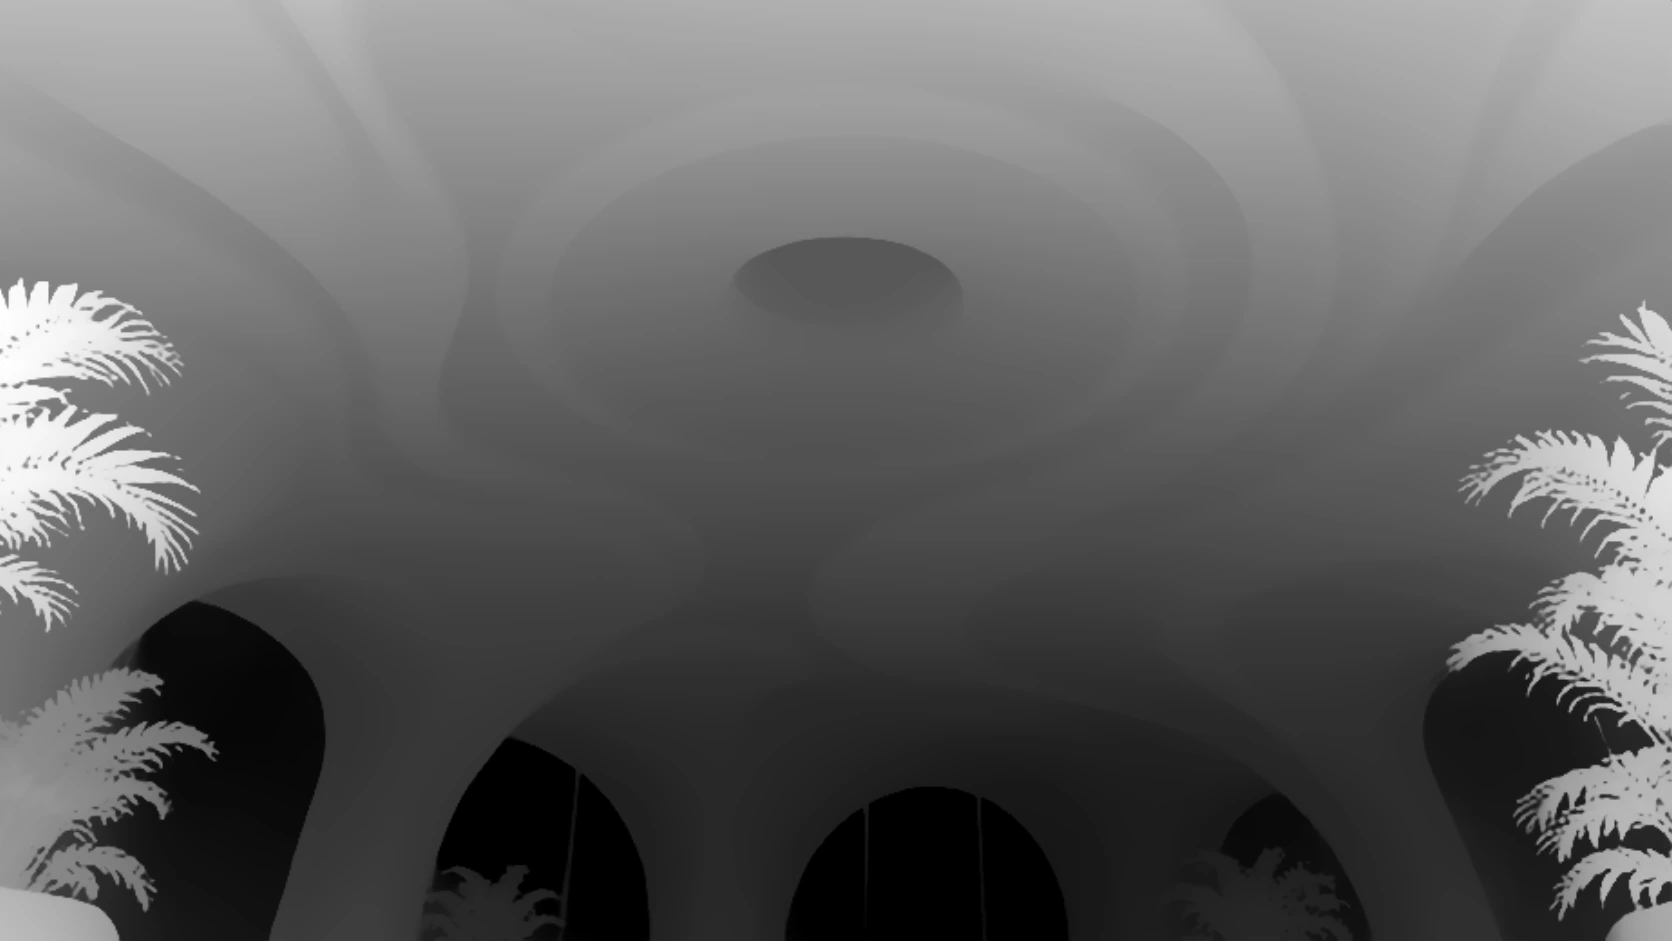
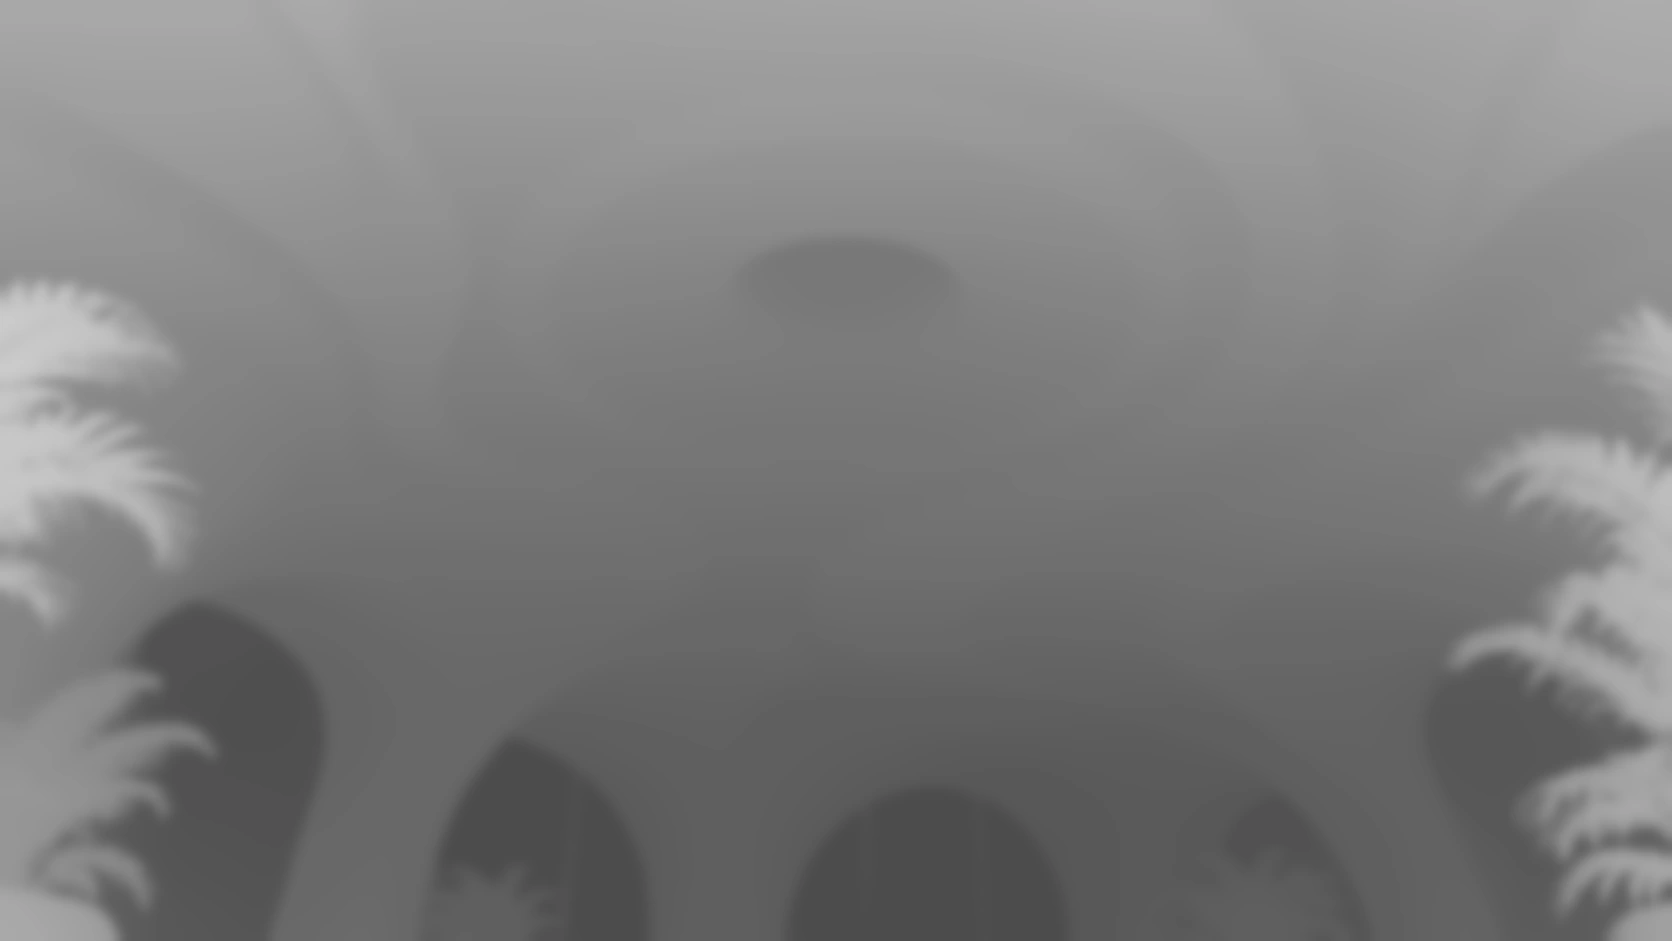
Add files via upload

diff --git a/journey.min.js b/journey.min.js
@@ -56,7 +56,7 @@ $("jwW").innerHTML = '<div class="jw-wp" data-id="' + id + '"><div class="jw-wi"
 jw.classList.add("win"); mark(); $("jwX").focus({ preventScroll: true });
 }
 const closeWin = () => { jw.classList.remove("win"); mark(); };
-const ROOMS = ["ceiling", "desk", "windows", "screen", "floor"], IA = 1672 / 941, F0 = .4;
+const ROOMS = ["ceiling", "desk", "windows", "screen", "floor"], IA = 1672 / 941, F0 = .5;
 const FL = [["home", 0, .5, .36, 1.2], ["creation", 0, .52, .5, 1.45], ["services", 1, .5, .58, 1.15], ["work", 1, .5, .46, 1.4], ["about", 2, .42, .52, 1.15], ["findme", 2, .72, .42, 1.5], ["cinema", 3, .58, .46, 1.25], ["beforeafter", 3, .42, .7, 1.5], ["process", 4, .45, .6, 1.15], ["brief", 4, .36, .55, 1.6], ["contact", 4, .5, .76, 1.75]];
 const FID = FL.map(f => f[0]);
 const AN = [
@@ -117,7 +117,7 @@ b.innerHTML = "<i></i><span>" + esc(it.t) + "</span>"; box.appendChild(b); MK.pu
 setTimeout(() => box.classList.add("show"), 40);
 }
 const VS = "attribute vec2 p;varying vec2 s;void main(){s=p*.5+.5;s.y=1.-s.y;gl_Position=vec4(p,0.,1.);}";
-const FS = "precision mediump float;varying vec2 s;uniform sampler2D im,dp;uniform vec2 C,F,SH;uniform float Z,A;void main(){vec2 p=(s-.5)*C+.5;float d=texture2D(dp,p).r;float z=1.+(Z-1.)*(.55+.9*d);vec2 q=F+(p-F)/z+SH*(d-.4);gl_FragColor=vec4(texture2D(im,clamp(q,0.,1.)).rgb,A);}";
+const FS = "precision highp float;varying vec2 s;uniform sampler2D im,dp;uniform vec2 C,F,SH;uniform float Z,A;vec2 mp(vec2 p,vec2 q){float d=texture2D(dp,clamp(q,0.,1.)).r;float z=1.+(Z-1.)*(.84+.32*d);return F+(p-F)/z+SH*(d-.5);}void main(){vec2 p=(s-.5)*C+.5;vec2 q=mp(p,p);q=mp(p,q);q=mp(p,q);gl_FragColor=vec4(texture2D(im,clamp(q,0.,1.)).rgb,A);}";
 function initGL() {
 try { gl = cv.getContext("webgl", { alpha: false, antialias: false, premultipliedAlpha: false }); } catch (e) { gl = null; }
 if (!gl) return false;
@@ -148,8 +148,8 @@ const x = clamp(u, 0, 1) * 127, y = clamp(v, 0, 1) * 71, x0 = x | 0, y0_ = y | 0
 return ((d[y0_ * 128 + x0] * (1 - fx) + d[y0_ * 128 + x1] * fx) * (1 - fy) + (d[y1 * 128 + x0] * (1 - fx) + d[y1 * 128 + x1] * fx) * fy) / 255;
 }
 function scr(st, u, v) {
-const C = cover(); let d = F0, px = u, py = v;
-for (let n = 0; n < 3; n++) { const z = 1 + (st.Z - 1) * (.55 + .9 * d); px = st.fx + (u - st.fx - SHx * (d - F0)) * z; py = st.fy + (v - st.fy - SHy * (d - F0)) * z; d = dsamp(st.room, px, py); }
+const C = cover(), d = dsamp(st.room, u, v), z = 1 + (st.Z - 1) * (.84 + .32 * d);
+const px = st.fx + (u - st.fx - SHx * (d - F0)) * z, py = st.fy + (v - st.fy - SHy * (d - F0)) * z;
 return [((px - .5) / C[0] + .5) * W, ((py - .5) / C[1] + .5) * H2];
 }
 function pass(r, Z, fx, fy, A) {
@@ -158,7 +158,7 @@ if (gl) {
 gl.activeTexture(gl.TEXTURE0); gl.bindTexture(gl.TEXTURE_2D, m.ti); gl.activeTexture(gl.TEXTURE1); gl.bindTexture(gl.TEXTURE_2D, m.td);
 gl.uniform2f(loc.C, C[0], C[1]); gl.uniform2f(loc.F, fx, fy); gl.uniform2f(loc.SH, SHx, SHy); gl.uniform1f(loc.Z, Z); gl.uniform1f(loc.A, A); gl.drawArrays(gl.TRIANGLE_STRIP, 0, 4);
 } else if (fbg && m.im) {
-const ze = 1 + (Z - 1) * .91, lo = (c, f) => f + (.5 - c / 2 - f) / ze, hi = (c, f) => f + (.5 + c / 2 - f) / ze, iw = m.im.naturalWidth, ih = m.im.naturalHeight;
+const ze = 1 + (Z - 1) * .98, lo = (c, f) => f + (.5 - c / 2 - f) / ze, hi = (c, f) => f + (.5 + c / 2 - f) / ze, iw = m.im.naturalWidth, ih = m.im.naturalHeight;
 const x0 = lo(C[0], fx), x1 = hi(C[0], fx), y0_ = lo(C[1], fy), y1 = hi(C[1], fy);
 fbg.globalAlpha = A; fbg.drawImage(m.im, x0 * iw, y0_ * ih, (x1 - x0) * iw, (y1 - y0_) * ih, 0, 0, fbc.width, fbc.height); fbg.globalAlpha = 1;
 }
@@ -177,7 +177,7 @@ const ease = k => k < .5 ? 4 * k * k * k : 1 - Math.pow(-2 * k + 2, 3) / 2;
 function frame(t) {
 if (!live && t > stopAt) { raf = 0; return; }
 lastT = t; smx += (mx - smx) * .06; smy += (my - smy) * .06;
-SHx = -smx * .02 + Math.sin(t * .00035) * .003; SHy = -smy * .012 + Math.cos(t * .0003) * .002;
+SHx = -smx * .012 + Math.sin(t * .00035) * .002; SHy = -smy * .008 + Math.cos(t * .0003) * .0015;
 const tg = S(idx); let passes;
 if (tr) {
 if (!(room[tg.room] && room[tg.room].ready)) tr.t0 = t;

diff --git a/journey.js b/journey.js
@@ -61,7 +61,7 @@
   const closeWin = () => { jw.classList.remove("win"); mark(); };
 
   /* ---------- the studio: rooms, camera stops, hotspot anchors ---------- */
-  const ROOMS = ["ceiling", "desk", "windows", "screen", "floor"], IA = 1672 / 941, F0 = .4;
+  const ROOMS = ["ceiling", "desk", "windows", "screen", "floor"], IA = 1672 / 941, F0 = .5;
   /* flight order: [section, room, focus x, focus y, zoom] */
   const FL = [["home", 0, .5, .36, 1.2], ["creation", 0, .52, .5, 1.45], ["services", 1, .5, .58, 1.15], ["work", 1, .5, .46, 1.4], ["about", 2, .42, .52, 1.15], ["findme", 2, .72, .42, 1.5], ["cinema", 3, .58, .46, 1.25], ["beforeafter", 3, .42, .7, 1.5], ["process", 4, .45, .6, 1.15], ["brief", 4, .36, .55, 1.6], ["contact", 4, .5, .76, 1.75]];
   const FID = FL.map(f => f[0]);
@@ -127,7 +127,7 @@
 
   /* ---------- WebGL: a photo + its depth map, with a depth-aware zoom and parallax ---------- */
   const VS = "attribute vec2 p;varying vec2 s;void main(){s=p*.5+.5;s.y=1.-s.y;gl_Position=vec4(p,0.,1.);}";
-  const FS = "precision mediump float;varying vec2 s;uniform sampler2D im,dp;uniform vec2 C,F,SH;uniform float Z,A;void main(){vec2 p=(s-.5)*C+.5;float d=texture2D(dp,p).r;float z=1.+(Z-1.)*(.55+.9*d);vec2 q=F+(p-F)/z+SH*(d-.4);gl_FragColor=vec4(texture2D(im,clamp(q,0.,1.)).rgb,A);}";
+  const FS = "precision highp float;varying vec2 s;uniform sampler2D im,dp;uniform vec2 C,F,SH;uniform float Z,A;vec2 mp(vec2 p,vec2 q){float d=texture2D(dp,clamp(q,0.,1.)).r;float z=1.+(Z-1.)*(.84+.32*d);return F+(p-F)/z+SH*(d-.5);}void main(){vec2 p=(s-.5)*C+.5;vec2 q=mp(p,p);q=mp(p,q);q=mp(p,q);gl_FragColor=vec4(texture2D(im,clamp(q,0.,1.)).rgb,A);}";
   function initGL() {
     try { gl = cv.getContext("webgl", { alpha: false, antialias: false, premultipliedAlpha: false }); } catch (e) { gl = null; }
     if (!gl) return false;
@@ -159,8 +159,8 @@
   }
   /* where does a point of the photo land on screen (same maths as the shader, solved by iteration) */
   function scr(st, u, v) {
-    const C = cover(); let d = F0, px = u, py = v;
-    for (let n = 0; n < 3; n++) { const z = 1 + (st.Z - 1) * (.55 + .9 * d); px = st.fx + (u - st.fx - SHx * (d - F0)) * z; py = st.fy + (v - st.fy - SHy * (d - F0)) * z; d = dsamp(st.room, px, py); }
+    const C = cover(), d = dsamp(st.room, u, v), z = 1 + (st.Z - 1) * (.84 + .32 * d);
+    const px = st.fx + (u - st.fx - SHx * (d - F0)) * z, py = st.fy + (v - st.fy - SHy * (d - F0)) * z;
     return [((px - .5) / C[0] + .5) * W, ((py - .5) / C[1] + .5) * H2];
   }
   function pass(r, Z, fx, fy, A) {
@@ -169,7 +169,7 @@
       gl.activeTexture(gl.TEXTURE0); gl.bindTexture(gl.TEXTURE_2D, m.ti); gl.activeTexture(gl.TEXTURE1); gl.bindTexture(gl.TEXTURE_2D, m.td);
       gl.uniform2f(loc.C, C[0], C[1]); gl.uniform2f(loc.F, fx, fy); gl.uniform2f(loc.SH, SHx, SHy); gl.uniform1f(loc.Z, Z); gl.uniform1f(loc.A, A); gl.drawArrays(gl.TRIANGLE_STRIP, 0, 4);
     } else if (fbg && m.im) {
-      const ze = 1 + (Z - 1) * .91, lo = (c, f) => f + (.5 - c / 2 - f) / ze, hi = (c, f) => f + (.5 + c / 2 - f) / ze, iw = m.im.naturalWidth, ih = m.im.naturalHeight;
+      const ze = 1 + (Z - 1) * .98, lo = (c, f) => f + (.5 - c / 2 - f) / ze, hi = (c, f) => f + (.5 + c / 2 - f) / ze, iw = m.im.naturalWidth, ih = m.im.naturalHeight;
       const x0 = lo(C[0], fx), x1 = hi(C[0], fx), y0_ = lo(C[1], fy), y1 = hi(C[1], fy);
       fbg.globalAlpha = A; fbg.drawImage(m.im, x0 * iw, y0_ * ih, (x1 - x0) * iw, (y1 - y0_) * ih, 0, 0, fbc.width, fbc.height); fbg.globalAlpha = 1;
     }
@@ -190,7 +190,7 @@
   function frame(t) {
     if (!live && t > stopAt) { raf = 0; return; }
     lastT = t; smx += (mx - smx) * .06; smy += (my - smy) * .06;
-    SHx = -smx * .02 + Math.sin(t * .00035) * .003; SHy = -smy * .012 + Math.cos(t * .0003) * .002;
+    SHx = -smx * .012 + Math.sin(t * .00035) * .002; SHy = -smy * .008 + Math.cos(t * .0003) * .0015;
     const tg = S(idx); let passes;
     if (tr) {
       if (!(room[tg.room] && room[tg.room].ready)) tr.t0 = t;
